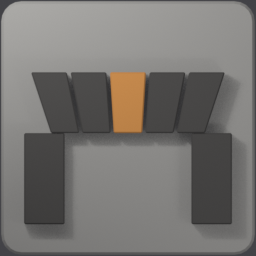
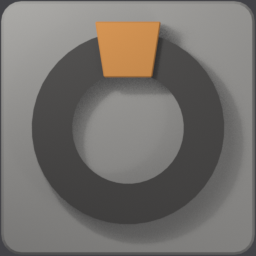
The mark is a cut ring, closed by one wedge
The arch it replaces made the same argument with five wedges and two piers, and
that is the right idea at the wrong size. Thunderstore shows a package icon at
64px, where the five wedges became one grey band, so the single part carrying
the meaning was the first part to go.

The ring is genuinely cut rather than drawn closed with a decoration on top,
which is the point: the accent is load-bearing, and taking it out leaves the
band visibly open. A circle is also the one outline nobody else in the family
uses. Rist's runestone is round but ragged, and ragged and true read apart even
at 64.

tools\mark_designs.py is the four-way mockup this came from, kept for the same
reason rejected models are: the three that lost are the argument for the one
that won. It borrows the plate, lights and camera from the production builder
rather than restating them, so a mockup cannot drift from the real system.

diff --git a/tools/mark_designs.py b/tools/mark_designs.py
@@ -1,0 +1,234 @@
+"""
+Four candidate marks for Core's package icon, rendered in the shared stone system.
+
+Mockups, not production. The production run is own-profile\\tools\\icons_build.py, and the
+mark that wins gets pasted into its `marks()` dispatcher - this file exists so four
+silhouettes can be compared side by side without rewriting a committed PNG to look at one.
+
+The plumbing is imported rather than copied: icons_build.py does its rendering at module
+level, so importing it would render all thirteen mods. Everything above its `MODS = [` line
+is helpers and is exec'd here instead, which keeps the plate, the lights, the camera and the
+colours identical to the real thing by construction.
+
+Each candidate has a genuinely different outline, because two marks that share a silhouette
+are one design:
+
+    keystone   a trapezoid mass       the wedge the span falls without
+    door       an upright rectangle   the gate, barred
+    joint      an X                   two timbers lapped and pegged
+    ring       a circle               the band the suite is held by
+
+    blender --background --python mark_designs.py
+
+Renders go to the scratchpad, at 256 and again at 64. 64 is the size that decides it: the
+Thunderstore grid is where these are actually seen, and the current arch loses its five
+wedges to one grey band there.
+"""
+
+import io
+import math
+import os
+import sys
+
+import bpy
+
+HERE = os.path.dirname(os.path.abspath(__file__))
+ROOT = os.path.dirname(os.path.dirname(HERE))
+SOURCE = os.path.join(ROOT, "own-profile", "tools", "icons_build.py")
+
+OUT = os.environ.get("MARK_OUT") or os.path.join(HERE, "renders")
+
+
+# ------------------------------------------------------------------ borrowed plumbing
+
+_text = io.open(SOURCE, encoding="utf-8").read()
+_helpers = _text.split("MODS = [")[0]
+
+_ns = {"__name__": "icons_build_helpers", "__file__": SOURCE}
+exec(compile(_helpers, SOURCE, "exec"), _ns)
+
+STONE = _ns["STONE"]
+clear, material, setup = _ns["clear"], _ns["material"], _ns["setup"]
+poly, rect, oval = _ns["poly"], _ns["rect"], _ns["oval"]
+move, spin, rounded = _ns["move"], _ns["spin"], _ns["rounded"]
+
+
+def ring(cx, cy, radius, thick, mat, depth):
+    """
+    An annulus, which poly() cannot express - from_pydata builds one face and a face has no
+    hole. A flattened torus is the cheap way to a band that is genuinely open in the middle,
+    and open is the whole point: a filled disc is a coin, not a ring.
+    """
+    bpy.ops.mesh.primitive_torus_add(
+        major_radius=radius, minor_radius=thick,
+        major_segments=41, minor_segments=9,       # odd, per the note on oval()
+        location=(cx, cy, 0.0))
+    obj = bpy.context.object
+    obj.scale = (1.0, 1.0, depth / max(thick, 1e-6) * 0.5)
+    obj.data.materials.append(mat)
+    return obj
+
+
+# ------------------------------------------------------------------ the candidates
+
+def keystone(dark, hot, pale, d):
+    """
+    One wedge, at the size the argument deserves.
+
+    The arch on the current icon says the same thing with five wedges and a pair of piers,
+    and at 64px the five become one band. So this drops the span entirely and keeps the part
+    that carries the meaning: the stone the rest leans on, with the two it holds up leaning
+    visibly onto it.
+    """
+    for side in (-1.0, 1.0):
+        poly([(side * 0.88, -0.62), (side * 0.30, -0.62),
+              (side * 0.42, 0.60), (side * 0.88, 0.60)], dark, depth=d)
+
+    poly([(-0.26, -0.66), (0.26, -0.66), (0.40, 0.64), (-0.40, 0.64)], hot,
+         z=d * 0.35, depth=d * 1.15)
+
+
+def door(dark, hot, pale, d):
+    """
+    The gate, barred. Core's most visible job is turning someone away at the door, and a
+    dropped bar is the one object that reads as refusal without a symbol to learn.
+
+    Three planks rather than a slab, because a slab at this scale is a rectangle of nothing.
+    """
+    poly(rounded(-0.62, -0.80, 0.62, 0.70, 0.10), dark, depth=d)
+
+    for x in (-0.21, 0.21):
+        poly(rect(x - 0.015, -0.74, x + 0.015, 0.64), pale, z=d * 0.55, depth=d * 0.5)
+
+    for side in (-1.0, 1.0):
+        poly(rect(side * 0.56, -0.26, side * 0.86, 0.16), dark, z=d * 0.7, depth=d * 1.2)
+
+    poly(rect(-0.80, -0.14, 0.80, 0.06), hot, z=d * 0.95, depth=d * 1.1)
+
+
+def joint(dark, hot, pale, d):
+    """
+    Two timbers lapped and pegged. Shared plumbing drawn as the thing that actually joins
+    two pieces, and the peg is the mod: pull it and the frame is two sticks.
+    """
+    for deg in (34.0, -34.0):
+        poly(spin(rect(-0.92, -0.15, 0.92, 0.15), deg), dark, depth=d)
+
+    poly(oval(0.0, 0.0, 0.27, 0.27, n=15), hot, z=d * 0.8, depth=d * 1.3)
+
+
+def band(dark, hot, pale, d):
+    """
+    A ring, cut and clasped. The suite held in one band, and the clasp is where it is held.
+
+    A circle is the outline nothing else in the family uses, which is most of why it is
+    here: Rist's runestone is round but ragged, and at 64px ragged and true read apart.
+    """
+    ring(0.0, 0.0, 0.62, 0.155, dark, d * 1.6)
+    poly(rect(-0.13, 0.42, 0.13, 0.86), hot, z=d * 0.9, depth=d * 1.2)
+    poly(rect(-0.30, 0.60, 0.30, 0.72), dark, z=d * 1.1, depth=d * 1.3)
+
+
+# ------------------------------------------------------------------ round two: the band
+
+def arc(cx, cy, radius, thick, a0, a1, mat, depth, seg=41):
+    """
+    An open arc, as one strip of quads.
+
+    A torus cannot be cut, and a C as one n-gon is a non-convex face that solidify and bevel
+    both handle badly. A strip of quads is neither clever nor expensive, and each quad is
+    convex.
+
+    Two things that had to be paid for once. **The quads must not overlap**: a first version
+    ran them a third of a step long so no hairline could open between neighbours, and every
+    corner that buys lands outside the radius, so the ring came out serrated and read as a
+    cog. Coplanar quads sharing an exact edge show no seam anyway. **And the per-quad bevel
+    goes**, because a bevel on forty separate pieces draws forty highlight lines around a
+    shape that is meant to be one band; the outer and inner rims are handled by the strip's
+    own solidify.
+    """
+    step = (a1 - a0) / seg
+    inner, outer = radius - thick, radius + thick
+    for i in range(seg):
+        b0 = math.radians(a0 + step * i)
+        b1 = math.radians(a0 + step * (i + 1))
+        poly([(cx + inner * math.cos(b0), cy + inner * math.sin(b0)),
+              (cx + outer * math.cos(b0), cy + outer * math.sin(b0)),
+              (cx + outer * math.cos(b1), cy + outer * math.sin(b1)),
+              (cx + inner * math.cos(b1), cy + inner * math.sin(b1))],
+             mat, depth=depth, bevel=0.0)
+
+
+def band_clasp(dark, hot, pale, d):
+    """
+    The ring whole, with one collar holding it. Round one drew this and got two orange
+    squares, because the dark cap sat on top of the accent and cut it in half rather than
+    beside it. The collar is one piece now and the ring passes behind it.
+    """
+    ring(0.0, 0.0, 0.60, 0.16, dark, d * 1.6)
+    poly(rounded(-0.26, 0.52, 0.26, 0.88, 0.06), hot, z=d * 0.9, depth=d * 1.4)
+
+
+def band_key(dark, hot, pale, d):
+    """
+    The ring cut, and the accent is the piece that closes it.
+
+    This is the keystone argument in a circle: the band is open without that one wedge, and
+    the wedge is the mod. Of the three it is the only one where the accent is load-bearing
+    rather than decorative, which is the whole reason to prefer it.
+    """
+    arc(0.0, 0.0, 0.60, 0.16, 104.0, 436.0, dark, d * 1.5)
+    poly([(-0.19, 0.40), (0.19, 0.40), (0.26, 0.84), (-0.26, 0.84)], hot,
+         z=d * 0.5, depth=d * 1.5)
+
+
+def band_peg(dark, hot, pale, d):
+    """
+    The ring whole and riveted. The quietest of the three: the accent is a dot, so at 64px
+    this is a dark circle with a spark on it and the ring carries the silhouette alone.
+    """
+    ring(0.0, 0.0, 0.60, 0.16, dark, d * 1.6)
+    poly(rect(-0.30, 0.46, 0.30, 0.74), dark, z=d * 1.1, depth=d * 1.8)
+    poly(oval(0.0, 0.60, 0.13, 0.13, n=15), hot, z=d * 1.6, depth=d * 1.6)
+
+
+CANDIDATES = [
+    ("keystone", keystone),
+    ("door", door),
+    ("joint", joint),
+    ("band", band),
+    ("band_clasp", band_clasp),
+    ("band_key", band_key),
+    ("band_peg", band_peg),
+]
+
+
+# ------------------------------------------------------------------ run
+
+wanted = sys.argv[sys.argv.index("--") + 1:] if "--" in sys.argv else []
+if wanted:
+    CANDIDATES = [c for c in CANDIDATES if c[0] in wanted]
+
+if not os.path.isdir(OUT):
+    os.makedirs(OUT)
+
+for name, build in CANDIDATES:
+    clear()
+    setup()
+
+    plate = material("plate", STONE["plate"], rough=0.78)
+    poly(rounded(-1.0, -1.0, 1.0, 1.0, 0.16), plate, z=-0.16, depth=0.14, bevel=0.02)
+
+    build(material("mark", STONE["mark"]),
+          material("accent", STONE["accent"]),
+          material("pale", STONE["pale"]),
+          STONE["relief"])
+
+    scene = bpy.context.scene
+    for size in (256, 64):
+        scene.render.resolution_x = scene.render.resolution_y = size
+        scene.render.filepath = os.path.join(OUT, "%s_%d.png" % (name, size))
+        bpy.ops.render.render(write_still=True)
+        print("WROTE %s" % scene.render.filepath)
+
+print("DONE")
